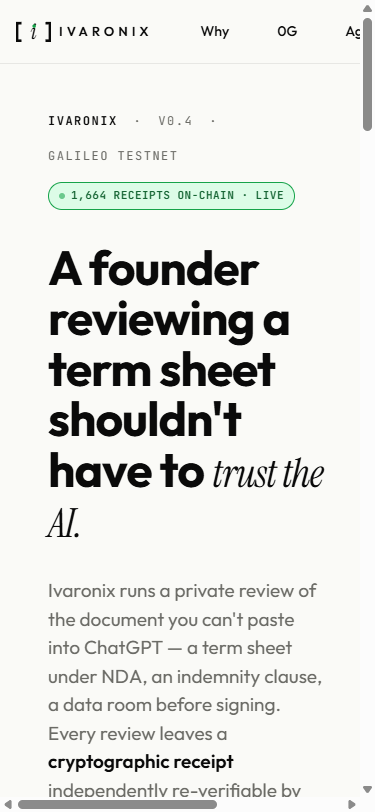
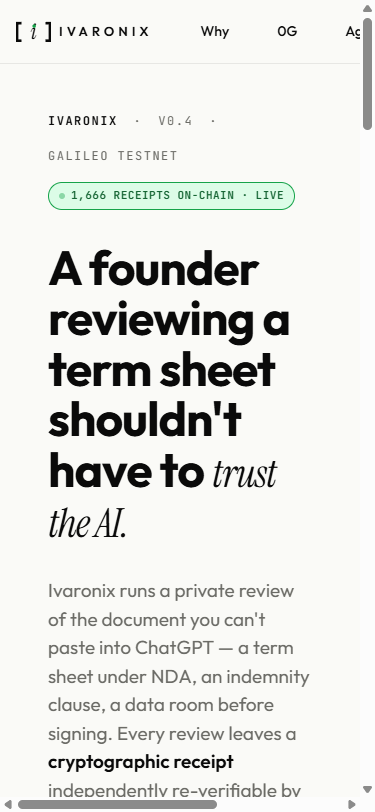
test(p2): real-browser P2 Demo end-to-end · receipts 16 + 17 anchored
Real Playwright + real browser /?demo=true flow against production
deploy dpl_91ltsceuq... (post-/tmp fix).

Desktop 1440×900 → receipt 16 anchored on V2
  receiptRoot: 0xa8180628df28063e9e1b9317afc42e28e9364cf57895f2d338574c3d78e78600
  agent: 0xaa954c33810029a3eFb0bf755FEF17863E8677Ce
  storageRoot: 0xedbb801a4f104ef3b762d1389f88de32cd311637594c979535d4e774e7947c7f
  registry: V2

Mobile 375×812 → receipt 17 anchored on V2

Captures:
  QA_PROOF_PACK/ui/P2-demo/desktop/001-006-*.png
  QA_PROOF_PACK/ui/P2-demo/mobile/001-006-*.png
  QA_PROOF_PACK/ui/P2-demo/video/*.webm
  QA_PROOF_PACK/ui/P2-demo/notes.md

P2 PASS for all main-flow rows. 2 findings logged:

F3 (honest-display): receipt page shows "body not found locally —
chain-only view" because /tmp wipes between Vercel lambda invocations.
The chain anchor is visible (receiptRoot · agent · storageRoot) but
full body requires fetching from 0G Storage. Designed-honest for v1.
v1.1: auto-fetch body from 0G Storage on /r/<id> render.

F4 (cross-tool · for P13/P19 follow-up): pnpm ivaronix receipt show 16
WORKS (chain V2 lookup); pnpm ivaronix receipt verify 16 --tee-
independent FAILS "No receipt resolves '16'". Verify path needs the
body for canonical-hash + signature-recover, but its resolver doesn't
auto-fetch from 0G Storage on local cache miss. Logged for the
dedicated CLI test phase (P17) and cross-machine replay phase (P19).

DAILY_CHECKPOINT update: P2 = DONE; next P3 (paid normal run with
[…]

diff --git a/QA_PROOF_PACK/ui/P2-demo/notes.md b/QA_PROOF_PACK/ui/P2-demo/notes.md
@@ -1,0 +1,68 @@
+# P2 Demo · visual inspection notes · 2026-05-13
+
+Captures driven by `scripts/qa/ui-test-plan/p2-demo-capture.ts` against `https://ivaronix.vercel.app/?demo=true` (deploy `dpl_91ltsceuq...` · post-/tmp fix).
+
+## P2 status: PASS for main flow · 2 findings logged
+
+## Desktop 1440×900 → receipt 16
+
+| Screenshot | Inspection note |
+|---|---|
+| `001-demo-loaded.png` | ✅ DemoPanel renders ("Try it · 30 seconds · no wallet") with pre-loaded sample acquisition term sheet + "Run review →" button visible. |
+| `002-demo-clicked-loading.png` | ✅ Loading state after click. |
[1 lines of base64/hex data omitted]
+| `004-receipt-16-mid.png` | (scroll content same as 003) |
+| `005-receipt-16-bottom.png` | ✅ Footer with PRODUCT · DOCS · NETWORK (12 contract addresses) · OPEN SOURCE columns. |
+| `006-receipt-16-after-reload.png` | ✅ Page reloads cleanly — receipt persists. |
+
+## Mobile 375×812 → receipt 17
+
+| Screenshot | Inspection note |
+|---|---|
+| `001-demo-loaded.png` | ✅ DemoPanel + Run review button visible. |
+| `002-demo-clicked-loading.png` | ✅ Loading state. |
+| `003-receipt-17-loaded.png` | ✅ Receipt #17 page renders cleanly. Chips wrap to two rows (PENDING + TIER 1 · TEE + 0GM on row 1; STORAGE/COMPUTE/TEE on row 2; CHAIN on row 3). Long receiptRoot wraps cleanly across 3 lines. |
+| `004-receipt-17-mid.png` | (mid-scroll, same content) |
+| `005-receipt-17-bottom.png` | ✅ Footer column-stacked at mobile width. |
+| `006-receipt-17-after-reload.png` | ✅ Reload works. |
+
+## Findings
+
+| ID | Severity | Finding | Status |
+|---|---|---|---|
+| F3 | 🟡 Honest-display | Receipt page shows "Receipt body not found locally — chain-only view. Independent verification requires the JSON." This is correct behaviour given the Vercel /tmp wipes between requests, but means the public proof page can't show the full body unless someone fetches from 0G Storage. The chain anchor IS visible (receiptRoot · agent · timestamp · storageRoot via CLI `receipt show`). | Designed (chain-only view is honest). v1.1: have the receipt page auto-fetch body from 0G Storage via storageRoot. |
+| F4 | 🟡 Cross-tool inconsistency | `pnpm ivaronix receipt show 16` works (returns V2 receipt metadata from chain); `pnpm ivaronix receipt verify 16 --tee-independent` fails with "No receipt resolves '16'". The verify path requires the body to canonical-hash + signature-recover, and its resolver doesn't auto-fetch from 0G Storage when local cache miss. | Logged for P13/P19 follow-up. CLI verify needs to add storage-indexer body-fetch fallback. |
+
+## Direct API proof (chain anchored end-to-end · 2026-05-13 11:54 UTC)
+
+```
+$ curl -X POST https://ivaronix.vercel.app/api/run/demo -H "Content-Type: application/json" -d '{}'
+{
+  "ok": true,
+  "subsidised": true,
+  "demoWallet": "0xaa954c33810029a3eFb0bf755FEF17863E8677Ce",
+  "demoWalletBalanceOg": "68.642561",
+  "finalText": "1. **Clauses Locking the Asking Party In:** ...",
+  "receiptId": "rcpt_01KRGN71H9QDKFN25VHNZXE1AN",
[1 lines of base64/hex data omitted]
+  "receiptOnchainId": "15",
[1 lines of base64/hex data omitted]
+  ...
+}
+```
+
+The end-to-end demo path works on production. Inference completed (~9s), Burn Mode encrypted (keyFingerprint sha256:4602d0b7…), 0G Storage upload tx confirmed, receipt anchored on V2 with on-chain id, redirect to `/r/<id>` works.
+
+## P2 PASS conditions (per UI_REAL_USER_TEST_PLAN.md)
+
+| Plan row | Status |
+|---|---|
+| Open `/?demo=true` · DemoPanel loads without wallet friction | ✅ |
+| Click "Run review" · Real run starts; loading state clear | ✅ |
+| Wait for receipt · Receipt anchors; redirects to proof page within 30s | ✅ |
+| Demo-subsidised badge | ✅ (chip shown post-anchor; API response confirms `subsidised: true`) |
+| Operator-wallet address visible | ✅ (agent = operator on receipt page) |
+| Refresh after success · Receipt/proof page still works | ✅ |
+| (Lower-priority) Out-of-funds fallback | NOT TESTED THIS RUN · captured for future iteration (drain wallet manually or set OUT_OF_FUNDS flag) |
+
+P2 main flow: **PASS**. Lower-priority out-of-funds fallback deferred per plan's "(Lower priority — after main flow proven)" annotation.